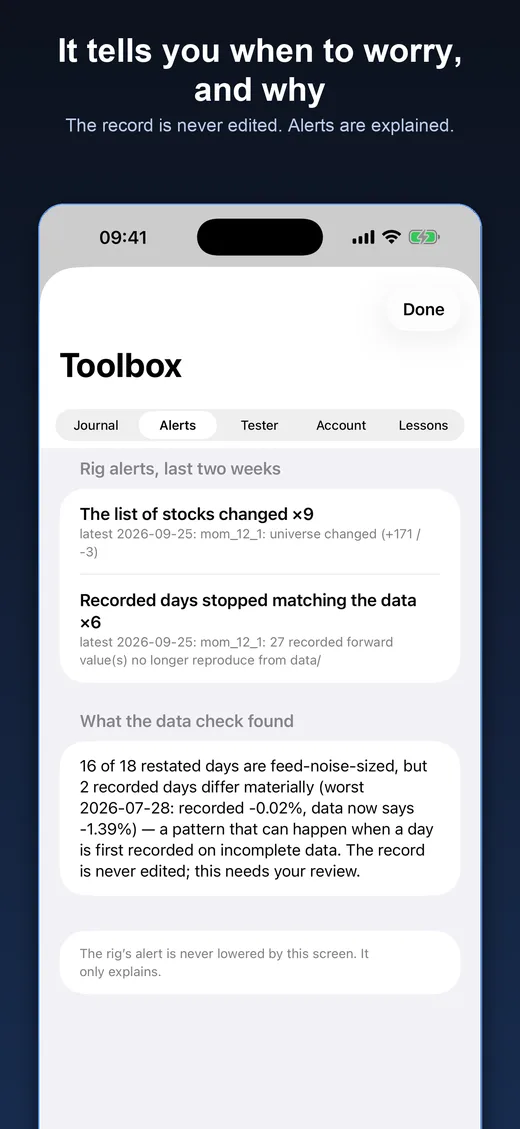
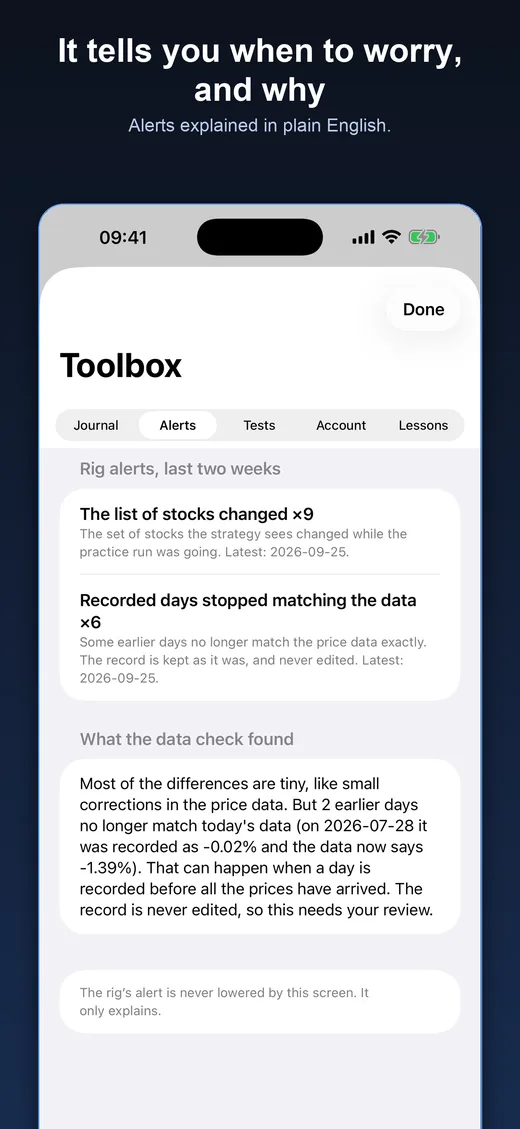
Update screenshots and alt text (plain wording)

diff --git a/index.html b/index.html
@@ -30,7 +30,7 @@ ol,ul{padding-left:22px}li{margin:6px 0}.small{font-size:14px;color:var(--ink2)}
 <h1>Test strategies on paper first.</h1>
 <p class="lead">FLIP IT is a calm, honest home for practice trading. Real numbers, no real money, nothing to place. It shows where a practice run stands, every idea that has been tried (failures included) and when to be careful.</p>
 <p><strong>Coming to the App Store.</strong> <span class="small">Free. Read-only. No account, no ads, no tracking.</span></p></section>
-<section aria-label="Screenshots"><div class="shots"><img src="assets/shot-1.webp" width="520" height="1129" alt="FLIP IT overview: where the practice run stands, with a plain-English alert" loading="eager"><img src="assets/shot-2.webp" width="520" height="1129" alt="Candidates: every idea tried, failures included" loading="lazy"><img src="assets/shot-3.webp" width="520" height="1129" alt="Backtest gate: the checks an idea must pass" loading="lazy"><img src="assets/shot-4.webp" width="520" height="1129" alt="Pro view showing every number" loading="lazy"><img src="assets/shot-5.webp" width="520" height="1129" alt="Alerts explained in plain English" loading="lazy"><img src="assets/shot-6.webp" width="520" height="1129" alt="A candidate's checks, pass or fail" loading="lazy"></div></section>
+<section aria-label="Screenshots"><div class="shots"><img src="assets/shot-1.webp" width="520" height="1129" alt="FLIP IT overview: where the practice run stands, in plain English" loading="eager"><img src="assets/shot-2.webp" width="520" height="1129" alt="Candidates: every idea tried, failures included" loading="lazy"><img src="assets/shot-3.webp" width="520" height="1129" alt="One idea's checks, each passed or failed, in plain words" loading="lazy"><img src="assets/shot-4.webp" width="520" height="1129" alt="The practice test every idea must pass" loading="lazy"><img src="assets/shot-5.webp" width="520" height="1129" alt="Alerts explained in plain English" loading="lazy"><img src="assets/shot-6.webp" width="520" height="1129" alt="The rig's diary, which is never edited" loading="lazy"></div></section>
 <section id="features"><h2>What it does</h2><div class="grid"><div class="card"><h3>Know where you stand</h3><p>The day, the trades, and whether the run is inside the range it was expected to stay in, in plain English.</p></div><div class="card"><h3>Every idea, failures included</h3><p>Each idea that was tried, with every check it passed or failed. Rejected ideas stay on the record.</p></div><div class="card"><h3>The honest test</h3><p>An idea must pass a strict test on old data, then survive a practice run on new data, before it earns anything.</p></div><div class="card"><h3>Alerts that explain themselves</h3><p>It tells you when to worry, and why. The record is never edited and an alert is never quietly lowered.</p></div><div class="card"><h3>Stress tests</h3><p>How bad the worst drop could plausibly have been, and how the run compares with simply holding.</p></div><div class="card"><h3>Simple or Pro</h3><p>A plain-English answer at a glance, or every number. Watch, widgets and Siri give you the answer in a moment.</p></div></div></section>
 <section><h2>How it works</h2><ol><li><strong>Your rig practises.</strong> Ideas are tested on old data, then followed on paper, day by day.</li>
 <li><strong>It publishes a small summary</strong> into a folder you choose, for example iCloud Drive. No server has to be running.</li>
